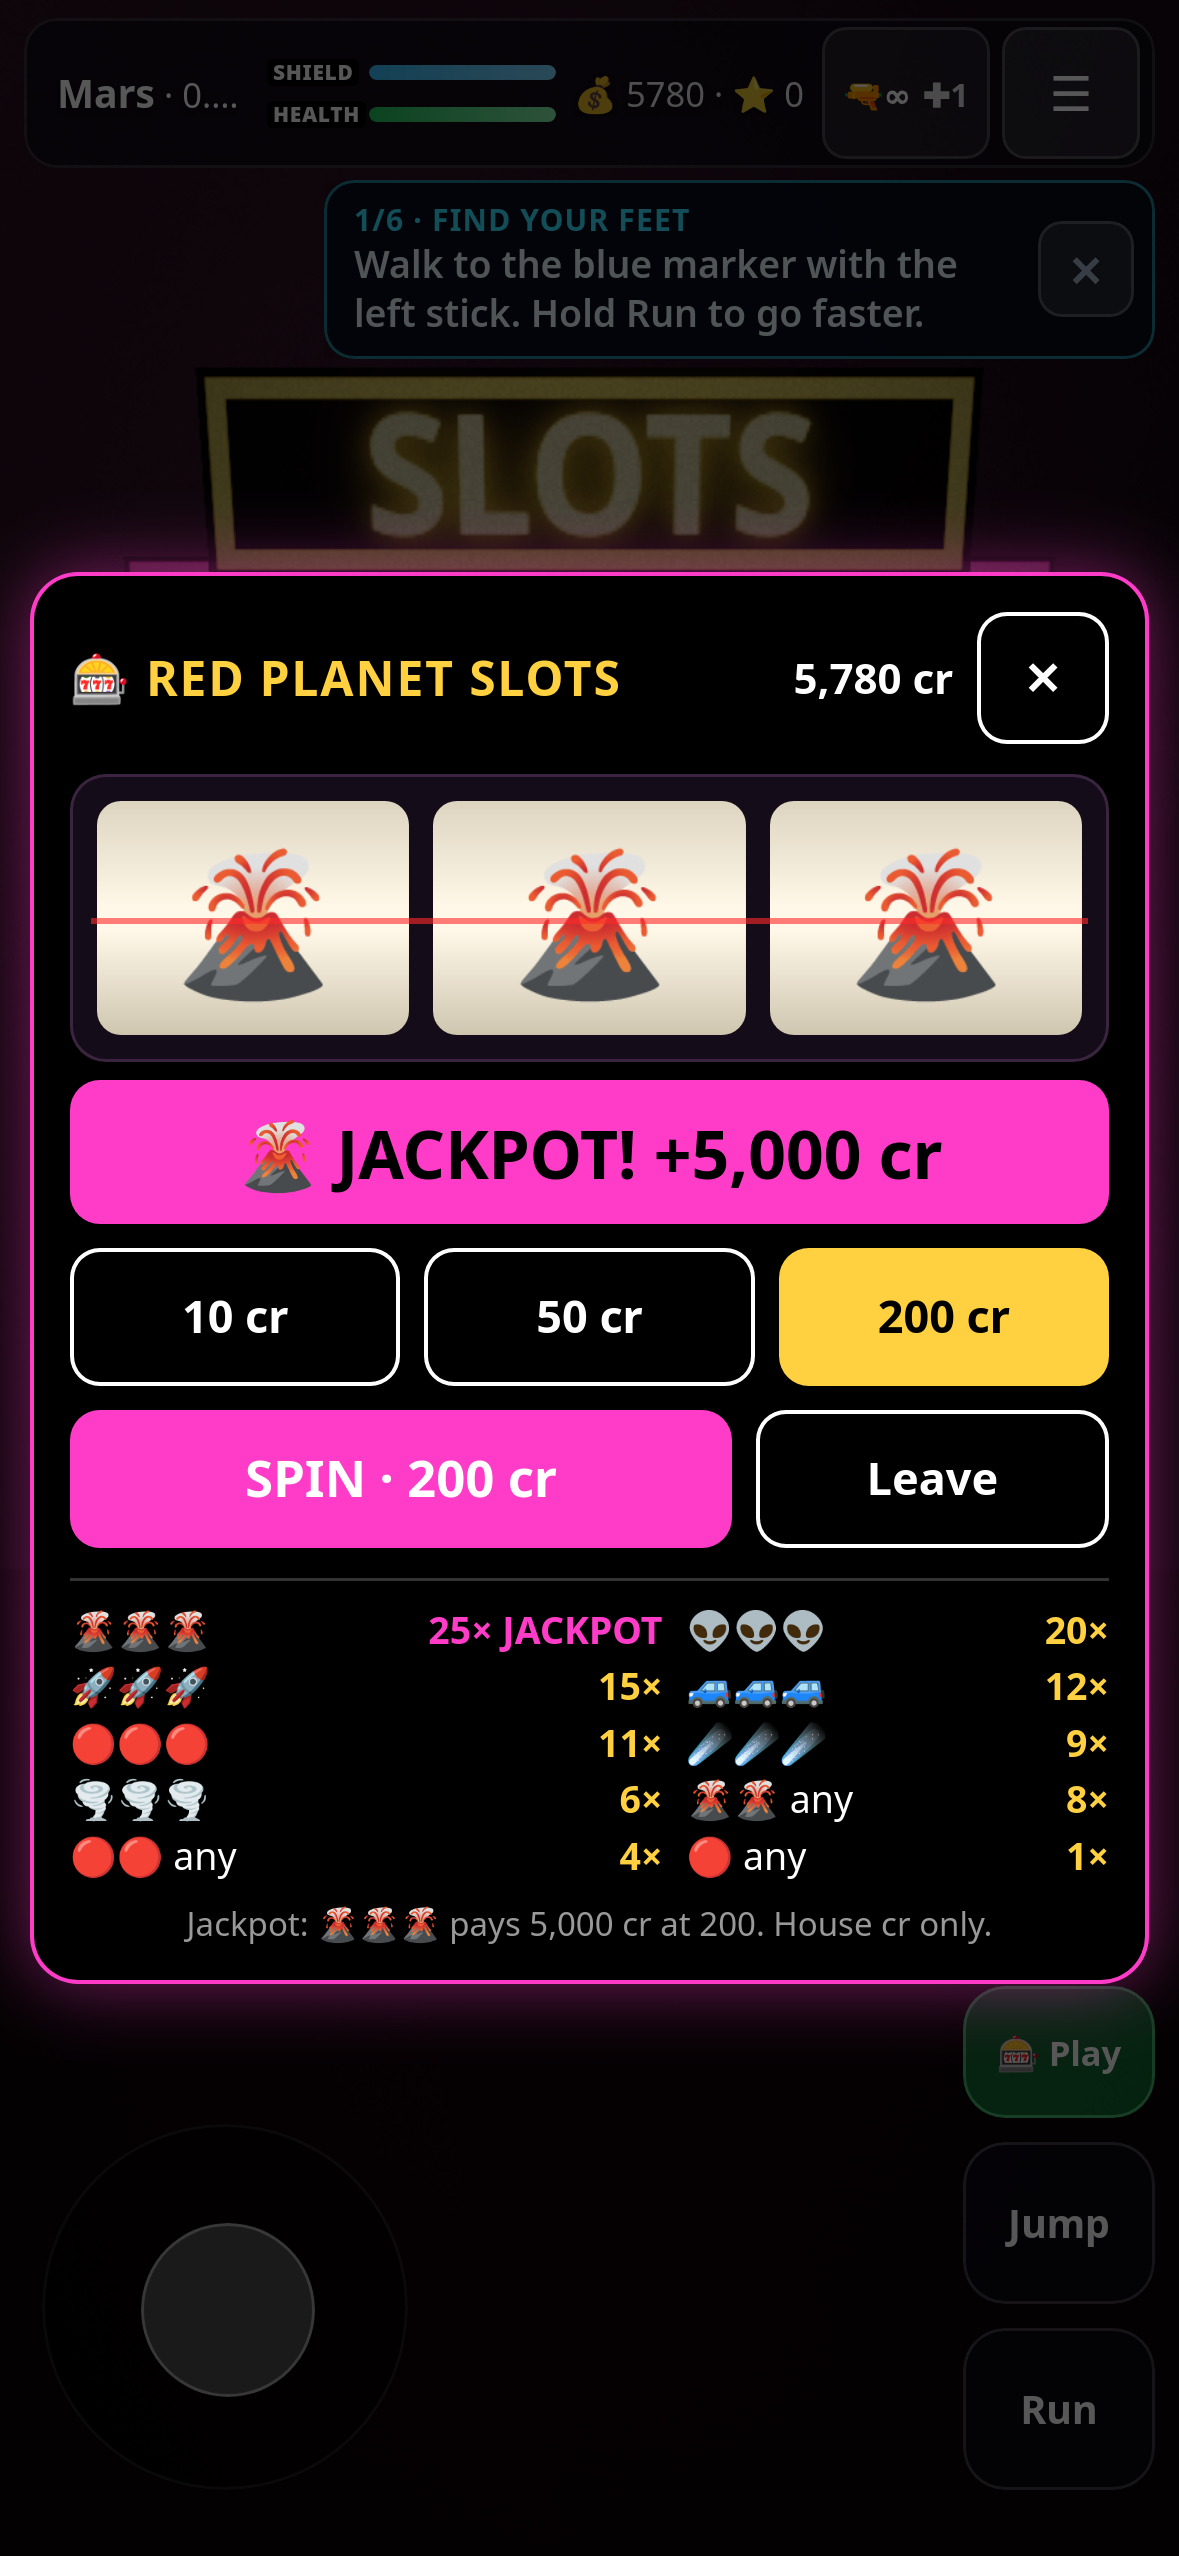
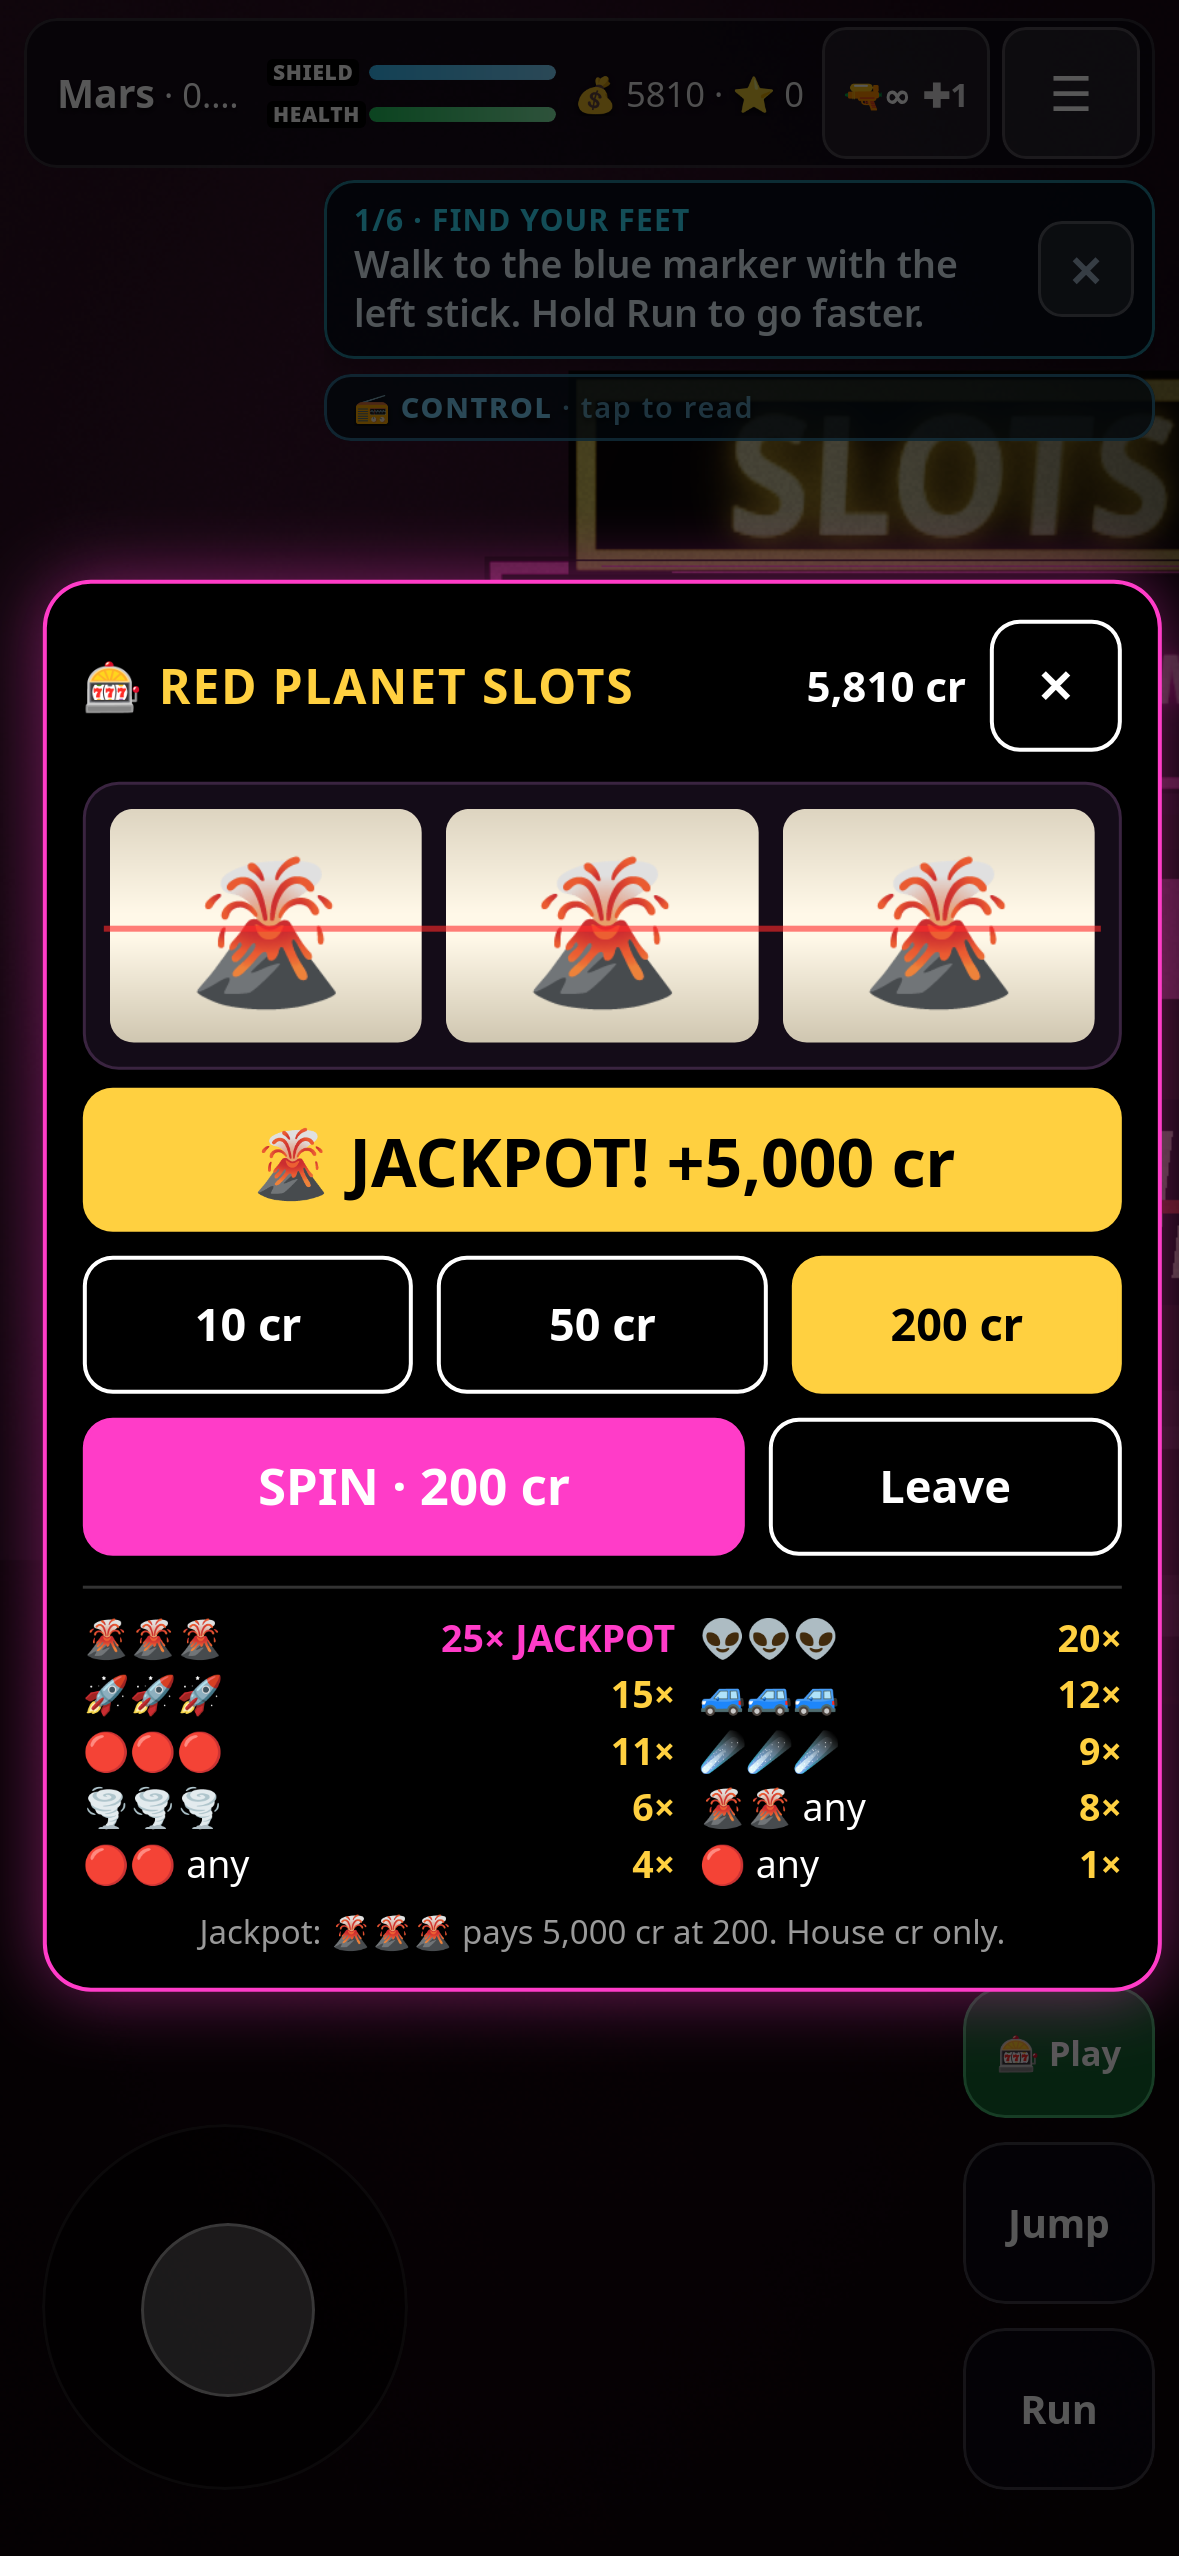
slots: landscape layout (reels+controls | paytable side by side), prompt shot angle, refreshed iPhone 14 WebKit shots

Changed region(s): [[0.0, 0.1236, 1.0, 0.8036], [0.5496, 0.0309, 0.5802, 0.0618]]

diff --git a/slots.js b/slots.js
@@ -121,6 +121,7 @@ body.slNear #driveBtn{background:#000!important;color:#fff!important;border:1.5p
 #slPay{display:grid;grid-template-columns:1fr auto 1fr auto;gap:2px 8px;margin-top:10px;padding-top:8px;border-top:1px solid #333;font-size:12.5px;align-items:center}
 #slPay .m{text-align:right;font-weight:700;color:#ffd040;font-variant-numeric:tabular-nums} #slPay .jp{color:#ff3cc8}
 #slCard .ft{margin-top:6px;color:#999;font-size:11px;text-align:center} body.touch #slCard .keys{display:none}
+@media (orientation:landscape) and (max-height:520px){#slCard{width:min(760px,calc(100vw - 24px));display:grid;grid-template-columns:1.1fr 1fr;column-gap:14px;padding:8px 12px} #slCard .hd{grid-column:1/-1} #slPay{margin-top:6px;border-top:0;padding-top:0} .slReel{height:58px!important;font-size:34px!important} #slReels{margin:6px 0 4px} #slMsg{min-height:36px} #slCard .r{margin-top:6px}}
 @media (max-height:700px){.slReel{height:64px;font-size:38px} #slPay{font-size:11.5px} #slCard{padding:10px}}
 `;
 // opts: { surface, toast, onTap, fx, actx: () => AudioContext, hud }
@@ -129,12 +130,12 @@ export function clubSlots({ surface, toast = () => {}, onTap = (el, fn) => el.ad
   const el = document.createElement('div'); el.id = 'slPanel'; el.setAttribute('role', 'dialog'); el.setAttribute('aria-modal', 'true');
   const pt = paytable().map(p => `<span${p.jackpot ? ' class="jp"' : ''}>${p.icons}</span><span class="m${p.jackpot ? ' jp' : ''}">${p.mult}×${p.jackpot ? ' JACKPOT' : ''}</span>`).join('');
   el.innerHTML = `<div id="slCard"><div class="hd"><b>🎰 RED PLANET SLOTS</b><span id="slCash"></span><button class="slBtn" id="slClose" aria-label="Close">✕</button></div>
-<div id="slReels"><div class="slReel" id="slR0">🌋</div><div class="slReel" id="slR1">🌋</div><div class="slReel" id="slR2">🌋</div></div>
+<div class="main"><div id="slReels"><div class="slReel" id="slR0">🌋</div><div class="slReel" id="slR1">🌋</div><div class="slReel" id="slR2">🌋</div></div>
 <div id="slMsg">Pick a bet and pull.</div>
 <div class="r" id="slBets">${BETS.map(b => `<button class="slBtn slBet" data-b="${b}">${b} cr</button>`).join('')}</div>
-<div class="r"><button class="slBtn" id="slSpin"></button><button class="slBtn" id="slLeave">Leave</button></div>
-<div id="slPay">${pt}</div>
-<div class="ft">Jackpot: 🌋🌋🌋 pays ${JACKPOT_AT[BETS[BETS.length - 1]].toLocaleString('en-US')} cr at ${BETS[BETS.length - 1]}. House cr only.<span class="keys"> · Space/E spin · 1 2 3 bet · Esc leave</span></div></div>`;
+<div class="r"><button class="slBtn" id="slSpin"></button><button class="slBtn" id="slLeave">Leave</button></div></div>
+<div class="side"><div id="slPay">${pt}</div>
+<div class="ft">Jackpot: 🌋🌋🌋 pays ${JACKPOT_AT[BETS[BETS.length - 1]].toLocaleString('en-US')} cr at ${BETS[BETS.length - 1]}. House cr only.<span class="keys"> · Space/E spin · 1 2 3 bet · Esc leave</span></div></div></div>`;
   document.body.appendChild(el);
   const $ = id => document.getElementById(id), card = $('slCard'), msg = $('slMsg'), R = [0, 1, 2].map(i => $('slR' + i)), spinBtn = $('slSpin');
   const game = () => surface?.game || window.__app?.surface?.game || window.__app?.game;

diff --git a/tests/test-slots.js b/tests/test-slots.js
@@ -51,7 +51,7 @@ const sleep = ms => new Promise(r => setTimeout(r, ms));
     await G(() => window.__app.surface.debugInside(-8.1, 1.5, 0)); await sleep(400); R.atBar = await G(() => window.__app.surface.info.spot?.id); ok('barSpot', R.atBar === 'bar');
     await G(() => window.__app.surface.debugInside(0, 7.0, 0)); await sleep(400); R.atDoor = await G(() => window.__app.surface.info.spot?.id); ok('doorSpot', R.atDoor === 'leave');
     // 1) the prompt at the machines
-    await G(() => window.__app.surface.debugInside(-7.7, 6.45, Math.PI));
+    await G(() => window.__app.surface.debugInside(-6.85, 6.4, Math.PI));
     ok('prompt', await wait(() => /🎰 Play/.test(document.getElementById('driveBtn').textContent) && window.__app.surface.info.spot?.id === 'slots' && document.body.classList.contains('slNear'), 15000));
     const bw = await G(() => { const c = getComputedStyle(document.getElementById('driveBtn')); return c.backgroundColor + ' / ' + c.color; });
     ok('promptBW', bw, /rgba?\(0, 0, 0(, 1)?\)/.test(bw) && /255, 255, 255/.test(bw.split('/')[1]));
